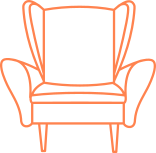
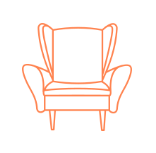
app mobile v2.8

Changed region(s): [[0.0, 0.0, 1.0, 1.0]]

diff --git a/code/ReactNative/App.tsx b/code/ReactNative/App.tsx
@@ -1,4 +1,5 @@
 import React, { useEffect } from 'react';
+import { StatusBar } from 'react-native';
 import { NavigationContainer } from '@react-navigation/native';
 import { createStackNavigator } from '@react-navigation/stack';
 import { DataContextProvider } from './assets/composants/context/dataContext';
@@ -31,6 +32,8 @@ const Stack = createStackNavigator();
 function App() {
   useEffect(() => {
     loadFonts();
+    StatusBar.setBackgroundColor('#4E4D4D');
+    StatusBar.setBarStyle('light-content');
   }, []);
 
   return (
